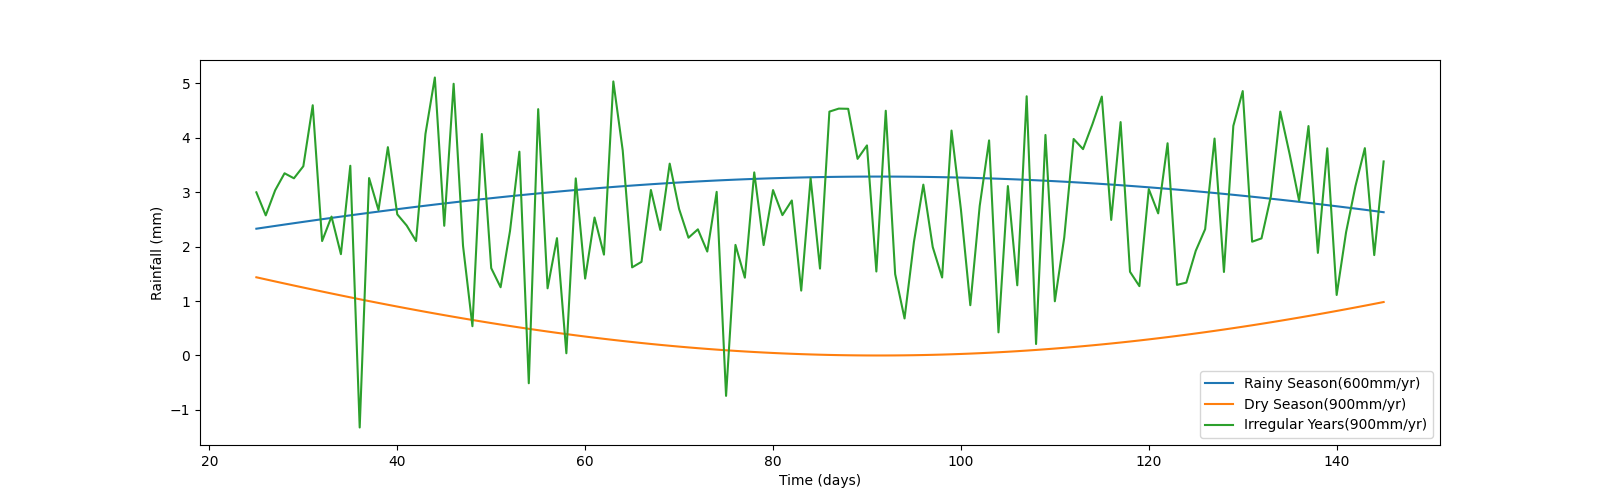
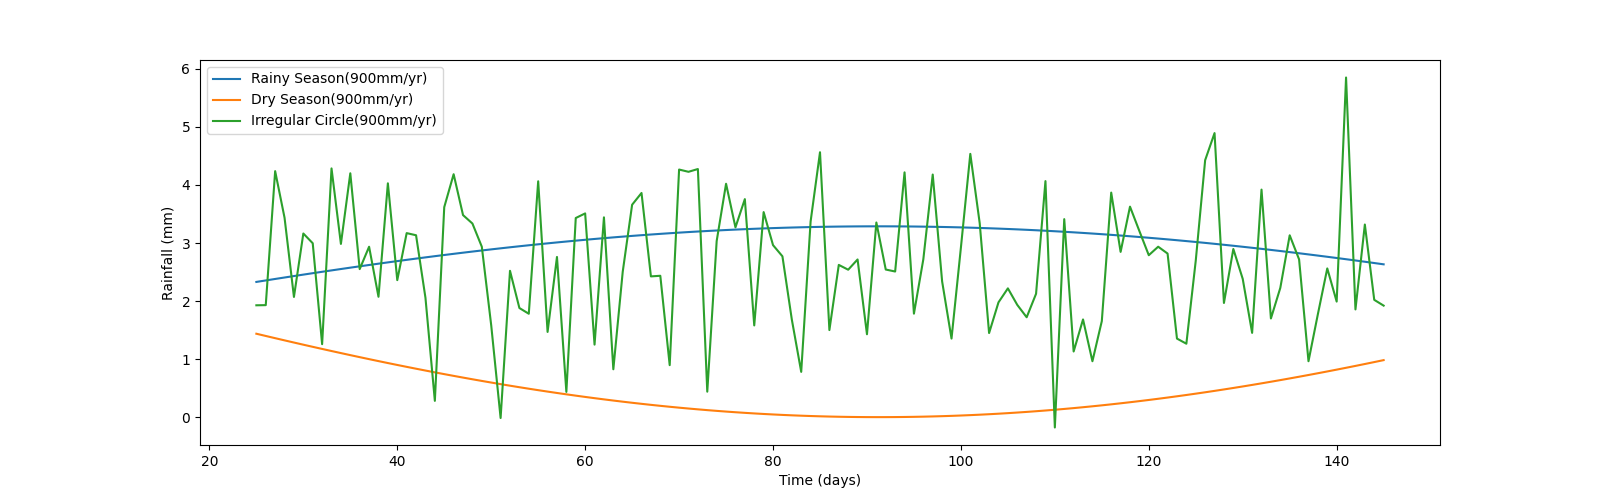
task1

diff --git a/main.py b/main.py
@@ -14,20 +14,20 @@ def rainfall(t):
     drought_rainfall = DROUGHT_LINE * np.sin(2*np.pi*t/drought_period) + DROUGHT_LINE
     rain_rainfall = RAIN_LINE * np.sin(2*np.pi*t/rain_period) + RAIN_LINE
     dryseason_rainfall = RAIN_LINE - RAIN_LINE * np.sin(2*np.pi*t/rain_period) 
-    # irregular_rainfall = np.random.normal(IRR_LINE, irregular_stddev, len(t))
+    irregular_rainfall = np.random.normal(IRR_LINE, irregular_stddev, len(t))
     
-    irregular_rainfall = np.random.normal(IRR_LINE, irregular_stddev)
-    while irregular_rainfall < 0 or irregular_rainfall > 2*IRR_LINE:
-        irregular_rainfall = np.random.normal(IRR_LINE, irregular_stddev)
+    # irregular_rainfall = np.random.normal(IRR_LINE, irregular_stddev)
+    # while irregular_rainfall < 0 or irregular_rainfall > 2*IRR_LINE:
+    #     irregular_rainfall = np.random.normal(IRR_LINE, irregular_stddev)
 
-    # plt.figure(figsize=(16, 5))
-    # plt.plot(t, drought_rainfall, label='Rainy Season(600mm/yr)')
-    # plt.plot(t, dryseason_rainfall, label='Dry Season(900mm/yr)')
-    # plt.plot(t, irregular_rainfall, label='Irregular Years(900mm/yr)')
-    # plt.xlabel('Time (days)')
-    # plt.ylabel('Rainfall (mm)')
-    # plt.legend()
-    # plt.show()
+    plt.figure(figsize=(16, 5))
+    plt.plot(t, drought_rainfall, label='Rainy Season(900mm/yr)')
+    plt.plot(t, dryseason_rainfall, label='Dry Season(900mm/yr)')
+    plt.plot(t, irregular_rainfall, label='Irregular Circle(900mm/yr)')
+    plt.xlabel('Time (days)')
+    plt.ylabel('Rainfall (mm)')
+    plt.legend()
+    plt.show()
     
     if WEATHER == 'drought':
         return drought_rainfall
@@ -171,9 +171,6 @@ def task1():
     plt.show()
     
 
-
-        
-
 def task2():
     t = np.linspace(1, 365, 365)
     m = np.linspace(0, 150, 151)
@@ -225,20 +222,13 @@ def task2():
 
 
 def task4_rainfall(t, mean_rainfall , frequency):
-    drought_period = 365/ frequency 
-    rain_period = 365 
+    period = 365/ frequency 
     irregular_stddev = IRR_LINE/2 
 
     # Generate the rainfall data for each pattern
-    drought_rainfall = DROUGHT_LINE * np.sin(2*np.pi*t/drought_period) + DROUGHT_LINE
-    rain_rainfall = RAIN_LINE * np.sin(2*np.pi*t/rain_period) + RAIN_LINE
-    dryseason_rainfall = RAIN_LINE - RAIN_LINE * np.sin(2*np.pi*t/rain_period) 
-    # irregular_rainfall = np.random.normal(IRR_LINE, irregular_stddev, len(t))
-    
-    irregular_rainfall = np.random.normal(IRR_LINE, irregular_stddev)
-    while irregular_rainfall < 0 or irregular_rainfall > 2*IRR_LINE:
-        irregular_rainfall = np.random.normal(IRR_LINE, irregular_stddev)
-        
+    drought_rainfall = mean_rainfall * np.sin(2*np.pi*t/period) + mean_rainfall
+
+
     return
 
 
@@ -246,10 +236,10 @@ def task4():
     return
 
 if __name__ == '__main__':
-    # t = np.linspace(25, 145, 121)
-    # rainfall(t)
+    t = np.linspace(25, 145, 121)
+    rainfall(t)
     # task1()
-    task2()
+    # task2()
     
     
     
